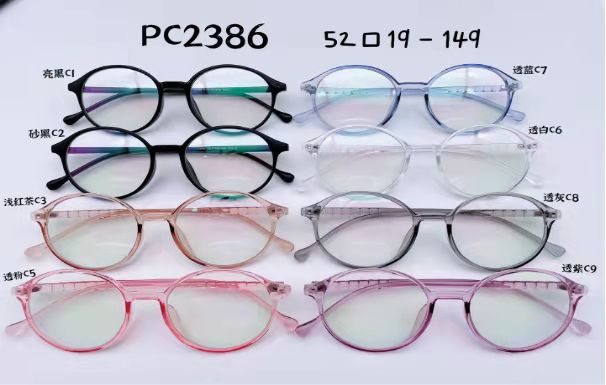
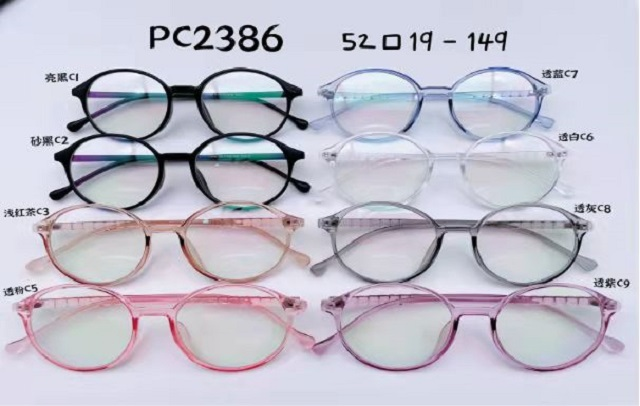
align photos width

diff --git a/products.html b/products.html
@@ -25,15 +25,27 @@
     <p><img alt="loading" src="./img/product/20506.jpg"/></p>
     <p><img alt="loading" src="./img/product/20507.jpg"/></p>
     <p><img alt="loading" src="./img/product/20508.jpg"/></p>
+    <p><img alt="loading" src="./img/product/20511.jpg"/></p>
+    <p><img alt="loading" src="./img/product/20516.jpg"/></p>
+    <p><img alt="loading" src="./img/product/20517.jpg"/></p>
     <p><img alt="loading" src="./img/product/35001.jpg"/></p>
     <p><img alt="loading" src="./img/product/35002.jpg"/></p>
     <p><img alt="loading" src="./img/product/35003.jpg"/></p>
+    <p><img alt="loading" src="./img/product/35004.jpg"/></p>
+    <p><img alt="loading" src="./img/product/35005.jpg"/></p>
+    <p><img alt="loading" src="./img/product/35006.jpg"/></p>
     <p><img alt="loading" src="./img/product/pc2378.jpg"/></p>
     <p><img alt="loading" src="./img/product/pc2381.jpg"/></p>
     <p><img alt="loading" src="./img/product/pc2382.jpg"/></p>
+    <p><img alt="loading" src="./img/product/pc2385.jpg"/></p>
+    <p><img alt="loading" src="./img/product/pc2386.jpg"/></p>
+    <p><img alt="loading" src="./img/product/pc2387.jpg"/></p>
     <p><img alt="loading" src="./img/product/tr81801.jpg"/></p>
     <p><img alt="loading" src="./img/product/tr81804.jpg"/></p>
     <p><img alt="loading" src="./img/product/tr81805.jpg"/></p>
+    <p><img alt="loading" src="./img/product/tr81807.jpg"/></p>
+    <p><img alt="loading" src="./img/product/tr81808.jpg"/></p>
+    <p><img alt="loading" src="./img/product/tr81809.jpg"/></p>
     <p><img alt="loading" src="./img/product/other_c1-c11.jpg"/></p>
     <p><img alt="loading" src="./img/product/other_c01-c07.jpg"/></p>
     <p><img alt="loading" src="./img/product/other_color-display.jpg"/></p>

diff --git a/contact.html b/contact.html
@@ -23,7 +23,8 @@
     <br/><br/>
     <br/>
     <div style="font-family:verdana;padding:12px;border-radius:8px;border:2px solid #404040; float: left;">
-    <p><div style="font-size: x-large">John Ho</div></p>
+    <p><div style="font-size: x-large">John HO</div></p>
+    <br/>
     <p><div style="font-size: large">Mobile/whatsApp/wechat ID: +86-138-67696329</div></p>
     <p><div style="font-size: large">Tel: +86-576-88880032</div></p>
     <p><div style="font-size: large">Fax: +86-576-88925732</div></p>
